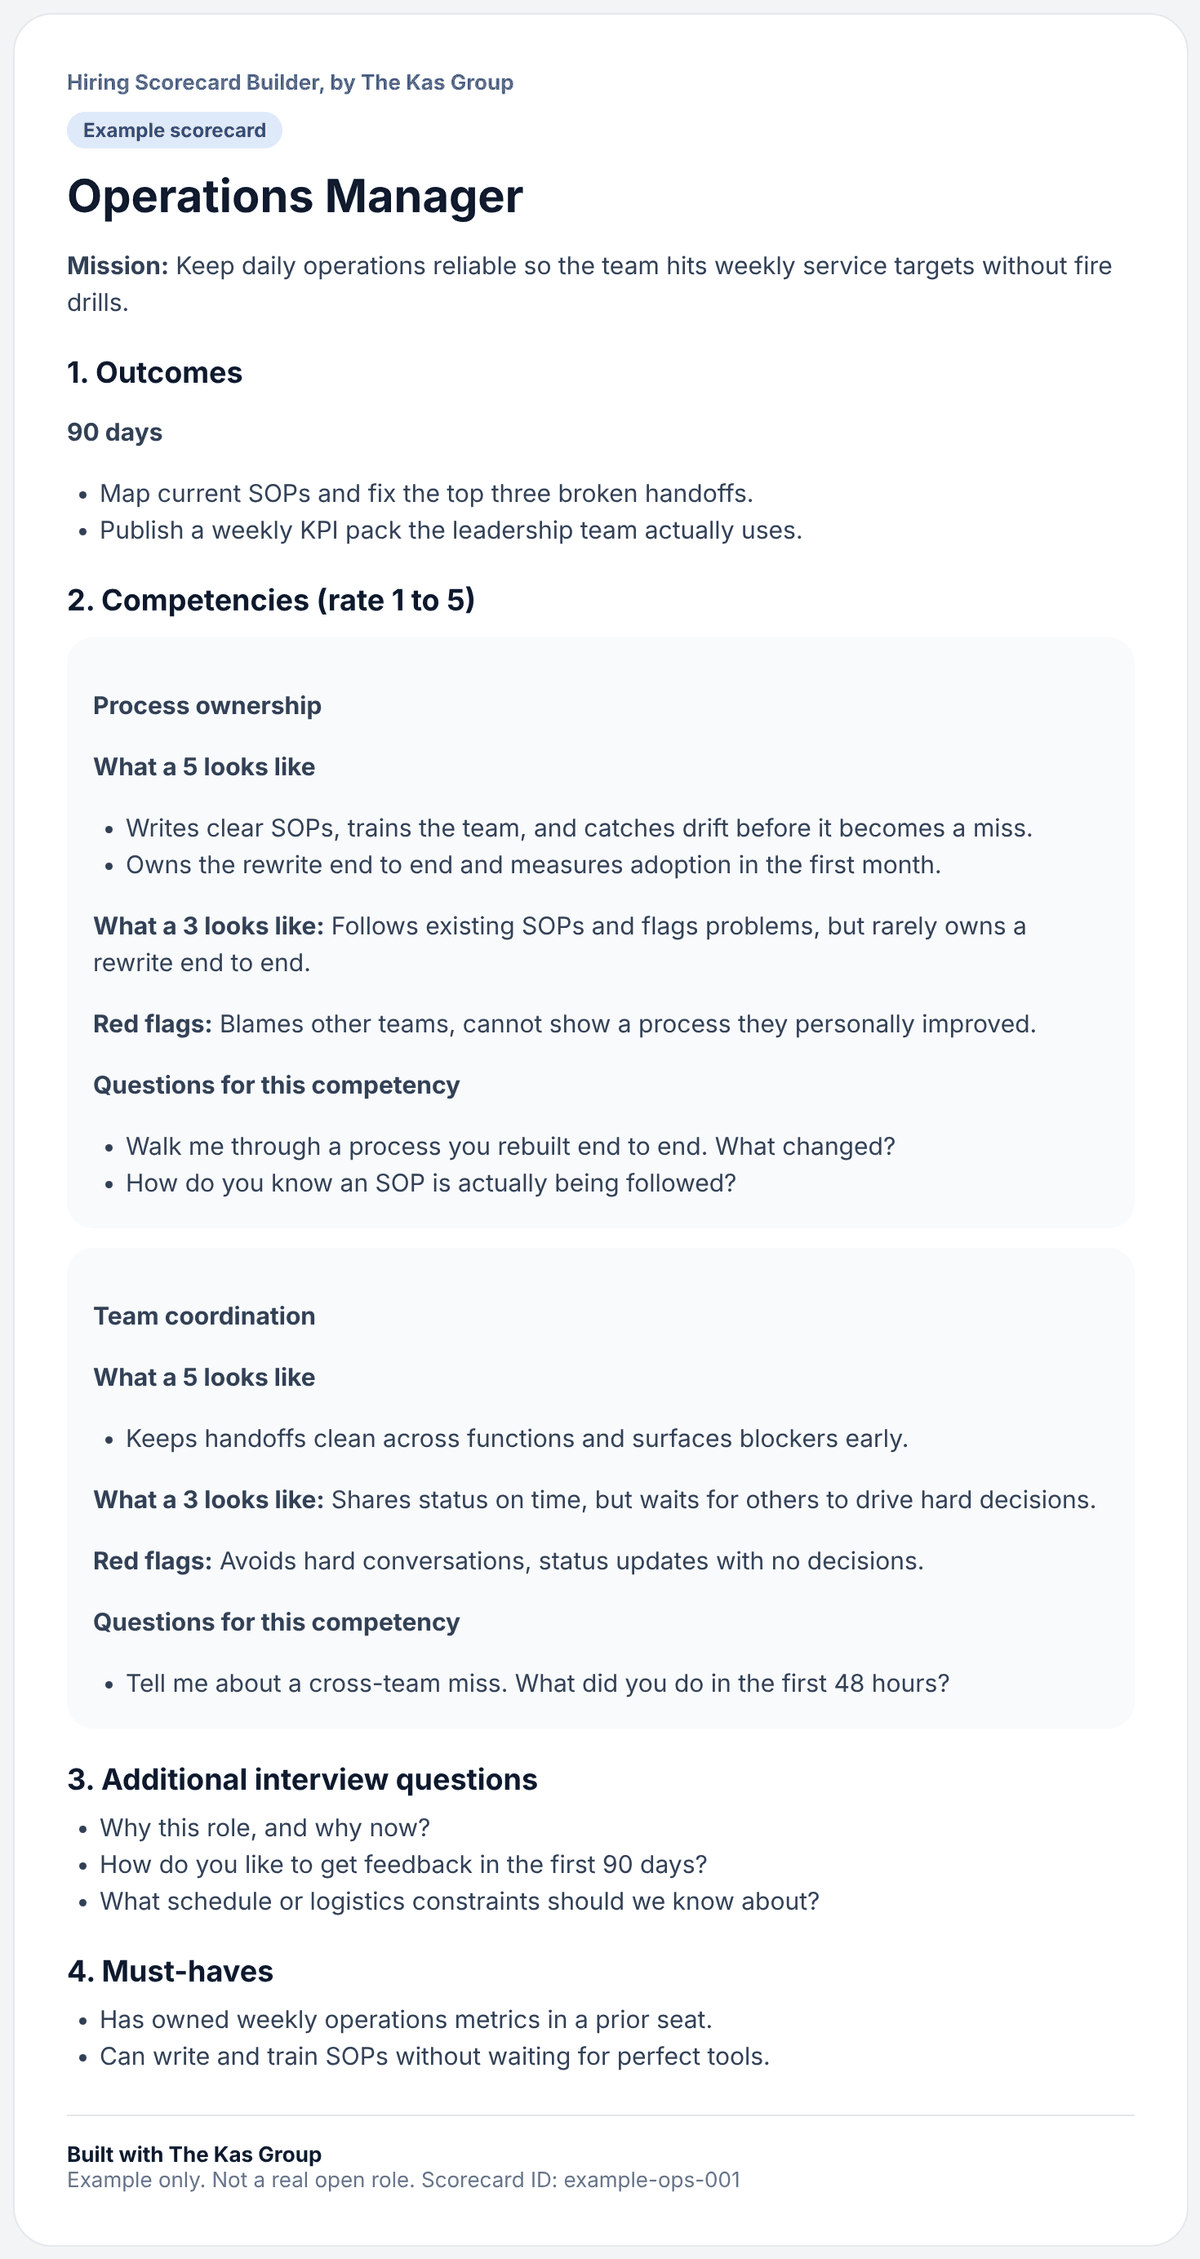
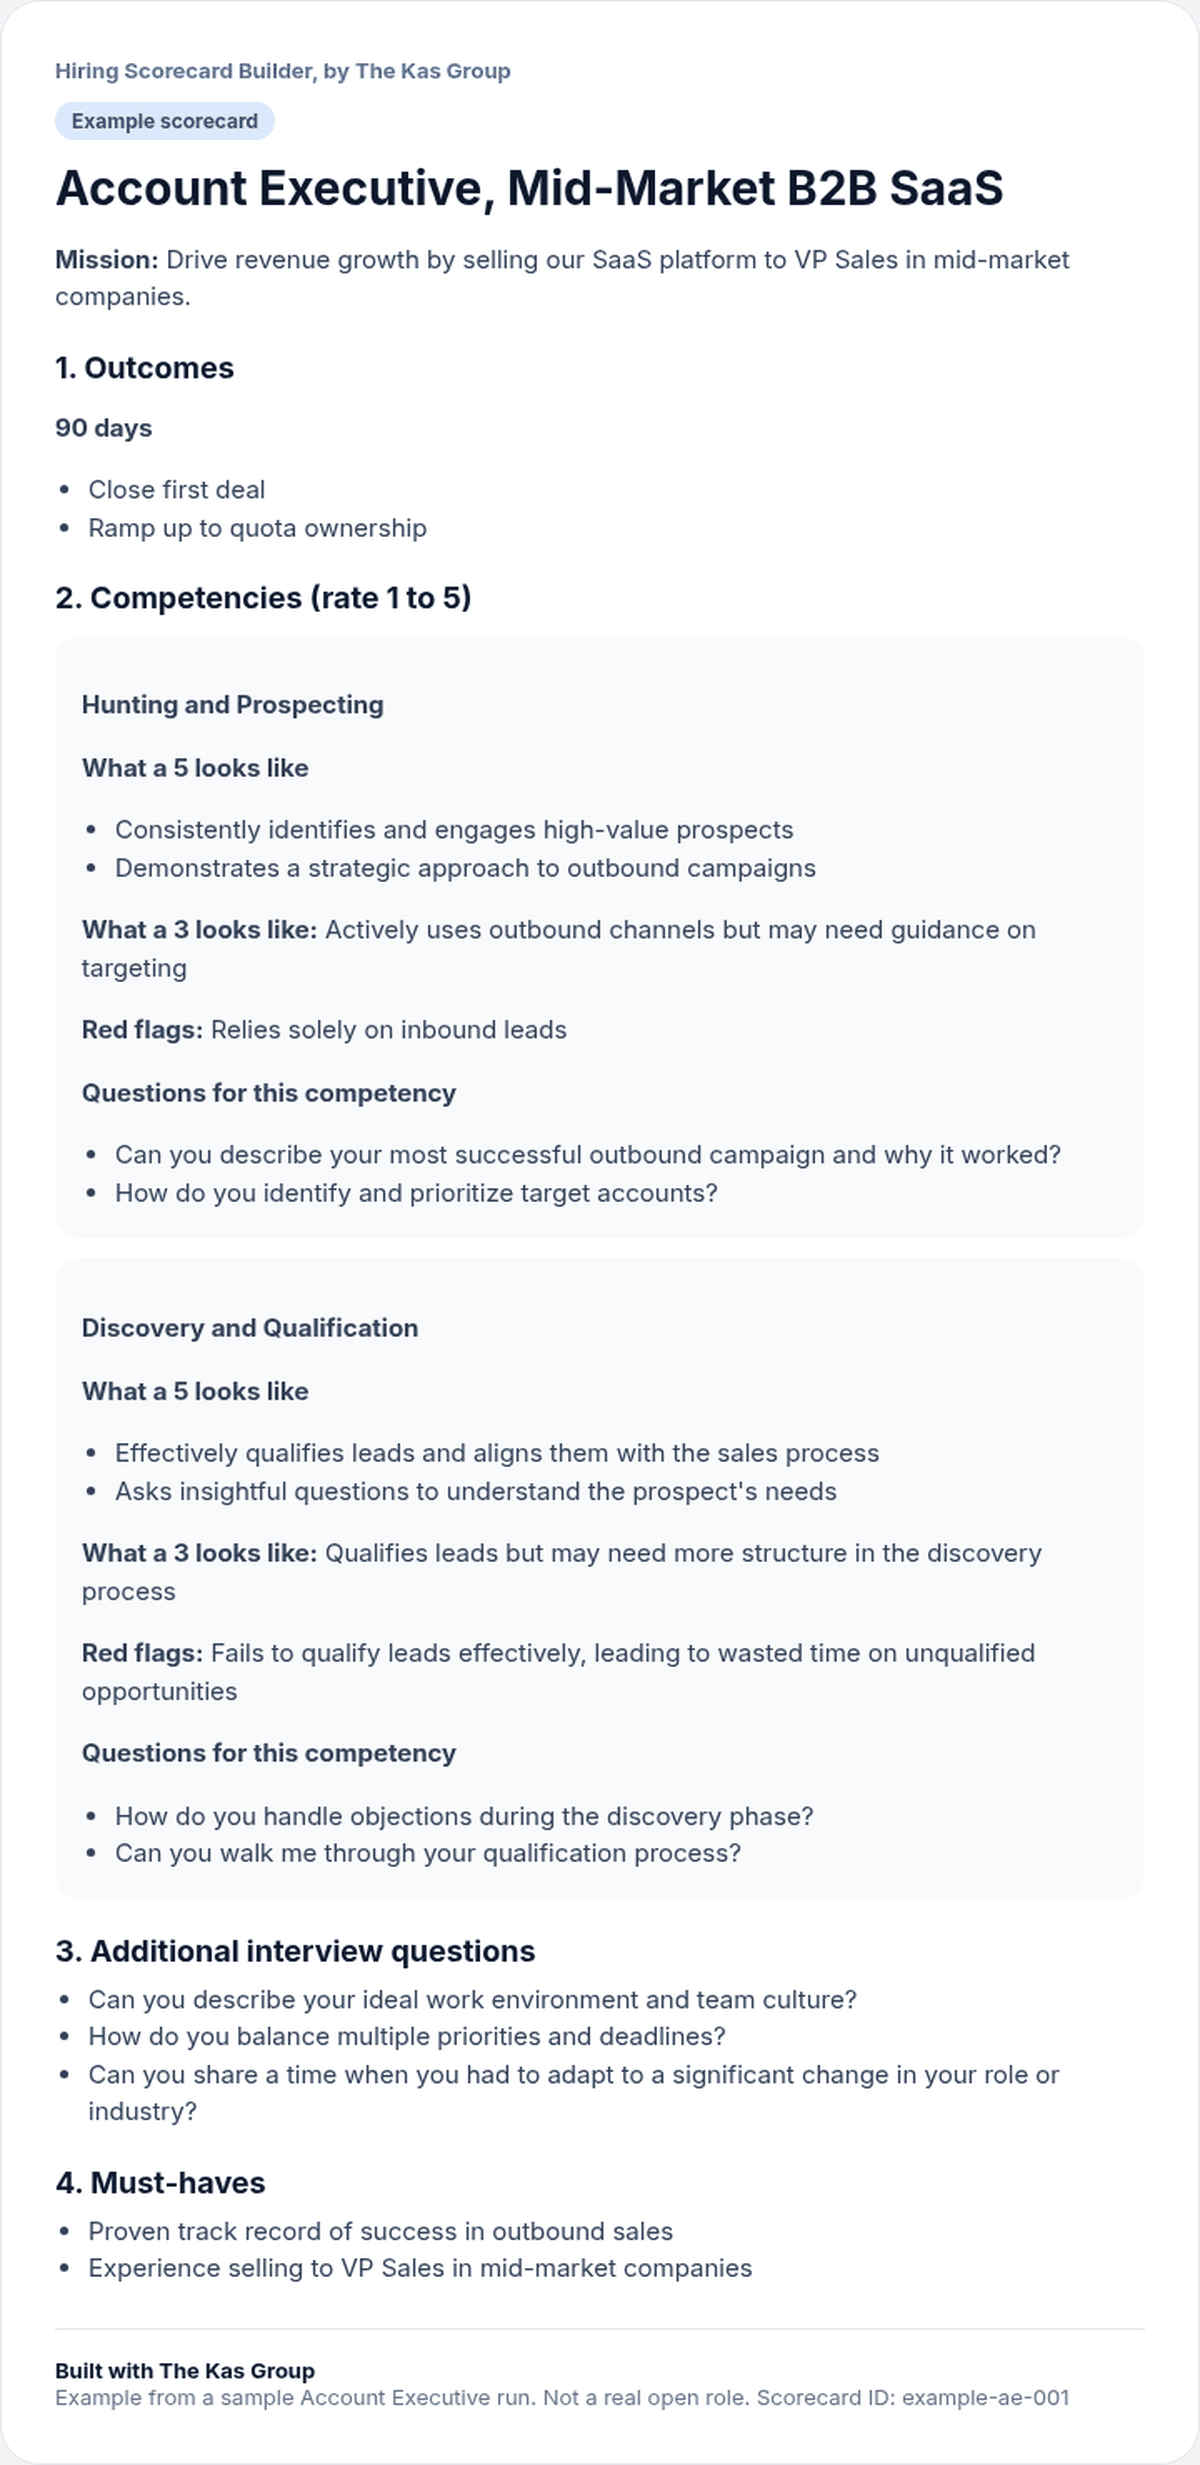
Hiring scorecard: use real AE sample for on-page example
Replace the hand-written ops example with content from a live
Account Executive run, and regenerate both example PNGs to match.

diff --git a/src/app/hiring-scorecard/page.tsx b/src/app/hiring-scorecard/page.tsx
@@ -109,26 +109,26 @@ export default function HiringScorecardPage() {
                     </div>
 
                     <div className="space-y-4">
-                        <h2 className="text-3xl font-bold text-navy-900">Worked example (generic operations role)</h2>
-                        <p className="text-sm text-grey-500">Hand-written example only. Not generated by the tool and not a real open role.</p>
+                        <h2 className="text-3xl font-bold text-navy-900">Worked example (Account Executive)</h2>
+                        <p className="text-sm text-grey-500">From a sample Account Executive run of this tool. Trimmed for the page. Not a real open role.</p>
                         <div className="rounded-3xl border border-grey-200 p-6 space-y-4 bg-grey-50">
-                            <p className="font-bold text-navy-900">Role: Operations Manager</p>
-                            <p><span className="font-semibold">Mission:</span> Keep daily operations reliable so the team hits weekly service targets without fire drills.</p>
+                            <p className="font-bold text-navy-900">Role: Account Executive, Mid-Market B2B SaaS</p>
+                            <p><span className="font-semibold">Mission:</span> Drive revenue growth by selling our SaaS platform to VP Sales in mid-market companies.</p>
                             <p className="font-semibold text-navy-900">90 day outcomes</p>
                             <ul className="list-disc pl-6">
-                                <li>Map current SOPs and fix the top three broken handoffs.</li>
-                                <li>Publish a weekly KPI pack the leadership team actually uses.</li>
+                                <li>Close first deal</li>
+                                <li>Ramp up to quota ownership</li>
                             </ul>
-                            <p className="font-semibold text-navy-900">Sample competency: Process ownership</p>
-                            <p><span className="font-semibold">What a 5 looks like:</span> Writes clear SOPs, trains the team, and catches drift before it becomes a miss.</p>
-                            <p><span className="font-semibold">What a 3 looks like:</span> Follows existing SOPs and flags problems, but rarely owns a rewrite end to end.</p>
-                            <p><span className="font-semibold">Red flags:</span> Blames other teams, cannot show a process they personally improved.</p>
+                            <p className="font-semibold text-navy-900">Sample competency: Hunting and Prospecting</p>
+                            <p><span className="font-semibold">What a 5 looks like:</span> Consistently identifies and engages high-value prospects. Demonstrates a strategic approach to outbound campaigns.</p>
+                            <p><span className="font-semibold">What a 3 looks like:</span> Actively uses outbound channels but may need guidance on targeting.</p>
+                            <p><span className="font-semibold">Red flags:</span> Relies solely on inbound leads.</p>
                             <p><span className="font-semibold">Questions for this competency:</span></p>
                             <ul className="list-disc pl-6">
-                                <li>Walk me through a process you rebuilt end to end. What changed?</li>
-                                <li>How do you know an SOP is actually being followed?</li>
+                                <li>Can you describe your most successful outbound campaign and why it worked?</li>
+                                <li>How do you identify and prioritize target accounts?</li>
                             </ul>
-                            <p className="text-sm text-grey-500">Built with The Kas Group · example only</p>
+                            <p className="text-sm text-grey-500">Built with The Kas Group · sample AE run · Scorecard ID: example-ae-001</p>
                         </div>
                     </div>
 

diff --git a/src/app/hiring-scorecard/ExampleLightbox.tsx b/src/app/hiring-scorecard/ExampleLightbox.tsx
@@ -42,7 +42,7 @@ export default function ExampleLightbox() {
             >
                 <Image
                     src="/images/hiring-scorecard-example-teaser.png"
-                    alt="Example hiring scorecard teaser for an Operations Manager role, Built with The Kas Group"
+                    alt="Example hiring scorecard teaser for an Account Executive role, Built with The Kas Group"
                     width={600}
                     height={429}
                     className="w-full h-auto"
@@ -80,9 +80,9 @@ export default function ExampleLightbox() {
                         </div>
                         <Image
                             src="/images/hiring-scorecard-example.png"
-                            alt="Full example hiring scorecard for an Operations Manager role with mission, outcomes, competencies and Built with The Kas Group footer"
+                            alt="Full example hiring scorecard for an Account Executive role with mission, outcomes, competencies and Built with The Kas Group footer"
                             width={1200}
-                            height={2259}
+                            height={2465}
                             className="w-full h-auto"
                         />
                     </div>

diff --git a/src/lib/page-dates.ts b/src/lib/page-dates.ts
@@ -63,7 +63,7 @@ export const PAGE_DATES: Record<string, PageDates> = {
     "/guides/who-to-hire-vp-sales-startup": { published: "2026-04-04T12:52:48-04:00", modified: "2026-10-24T14:30:00-04:00" },
     "/methodology": { published: "2026-02-27T15:52:13-05:00", modified: "2026-10-14T09:40:00-04:00" },
     "/pip-calculator": { published: "2026-04-20T13:36:28-04:00", modified: "2026-11-05T10:45:00-05:00" },
-    "/hiring-scorecard": { published: "2026-11-05T10:45:00-05:00", modified: "2026-11-05T13:40:00-05:00" },
+    "/hiring-scorecard": { published: "2026-11-05T10:45:00-05:00", modified: "2026-11-05T14:00:00-05:00" },
     "/privacy-policy": { published: "2026-09-10T12:52:29-04:00", modified: "2026-09-16T13:53:41-07:00" },
     "/programs": { published: "2026-09-14T09:28:02-04:00", modified: "2026-10-24T14:30:00-04:00" },
     "/recruit/ai": { published: "2026-02-04T16:43:23-05:00", modified: "2026-10-25T18:30:00-04:00" },
